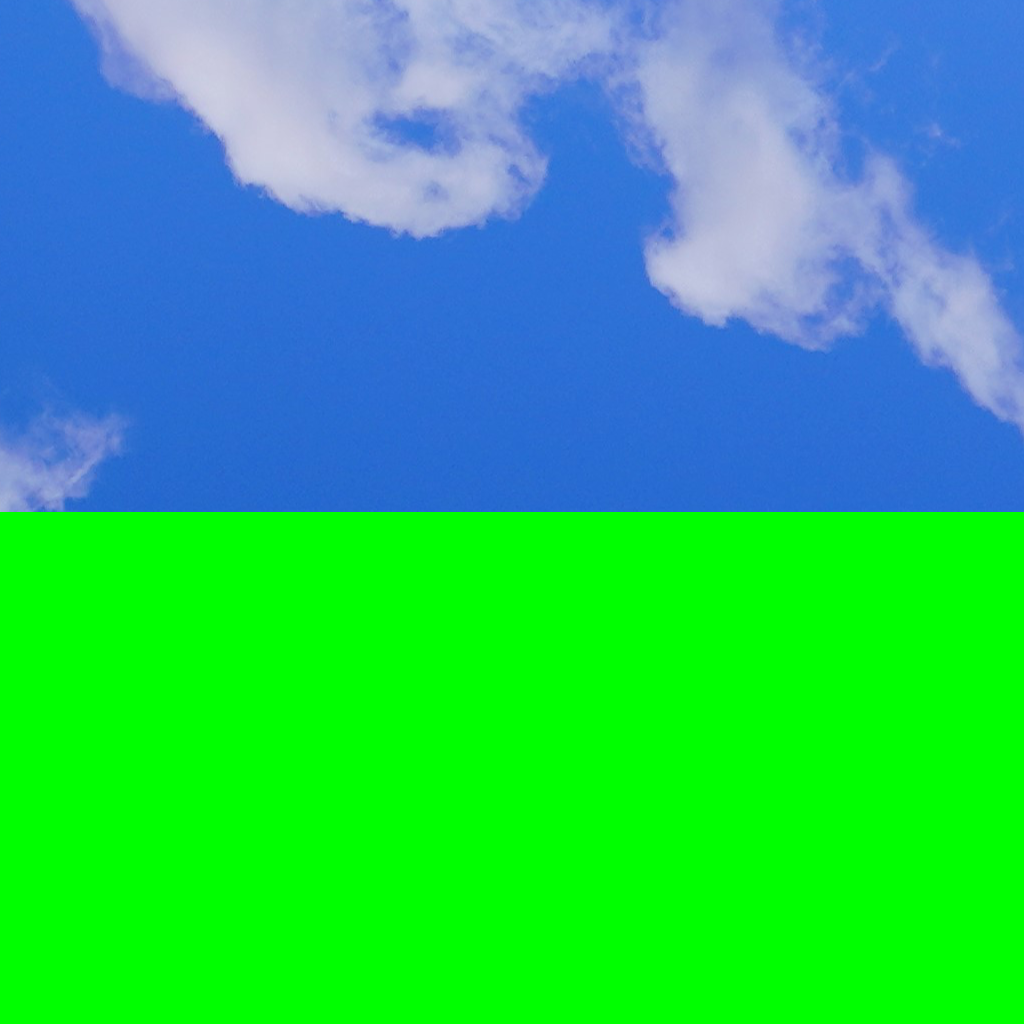
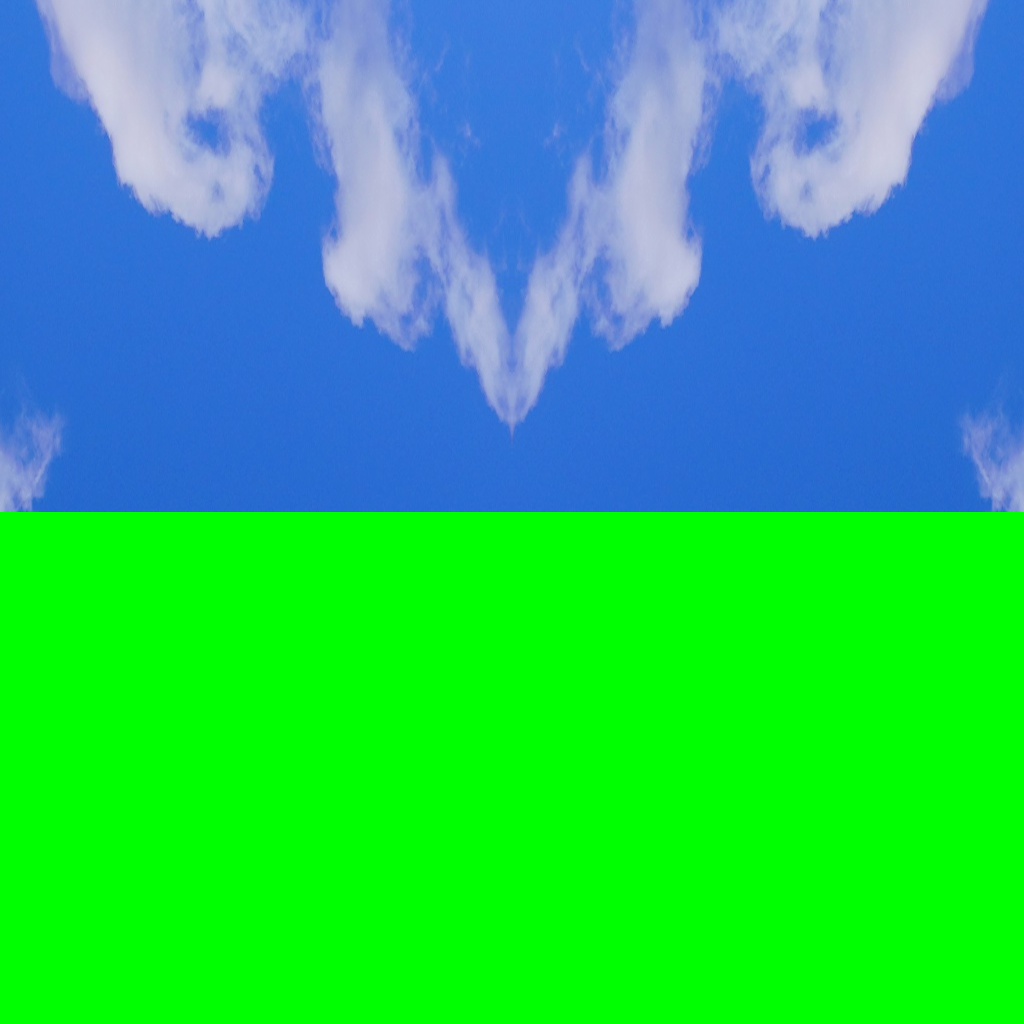
天球の画像を鏡面対象にして継ぎ目を目立たなくさせる

Changed region(s): [[0.0312, 0.0, 1.0, 0.5], [0.0, 0.4062, 0.125, 0.5]]

diff --git a/README.md b/README.md
@@ -30,7 +30,7 @@ root/
  ├ models/                      3Dモデル
  │     ├ maps                 テクスチャー
  │     │     ├ cat.png  # キャラクター
- │     │     ├ sky_1024x512.png  # 天球の内面
+ │     │     ├ sky_1024x1024.png  # 天球の内面
  │     │
  │     ├ egg_surface.egg  # キャラクター
  │     ├ sphere_uv_reverse.egg  # 天球（テクスチャー反転）
@@ -157,6 +157,7 @@ plateau_settingsに、先ほどダウンロードしたCityGMLファイルを読
   <tr><td>1</td><td>6669</td><td>129度30分0秒0000</td><td>33度0分0秒0000</td><td>長崎県すべてと鹿児島県の一部</td></tr>
   <tr><td>2</td><td>6670</td><td>131度 0分0秒0000</td><td>33度0分0秒0000</td><td>福岡県　佐賀県　熊本県　大分県　宮崎県　鹿児島県の一部</td></tr>
   <tr><td>3</td><td>6671</td><td>132度10分0秒0000</td><td>36度0分0秒0000</td><td>山口県　島根県　広島県</td></tr>
+  <tr><td>...</td></tr>
   <tr><td>9</td><td>6677</td><td>139度50分0秒0000</td><td>36度0分0秒0000</td><td>東京都（島しょ部を除く）福島県　栃木県　茨城県　埼玉県 千葉県　群馬県　神奈川県</td></tr>
 </tbody></table>
 
